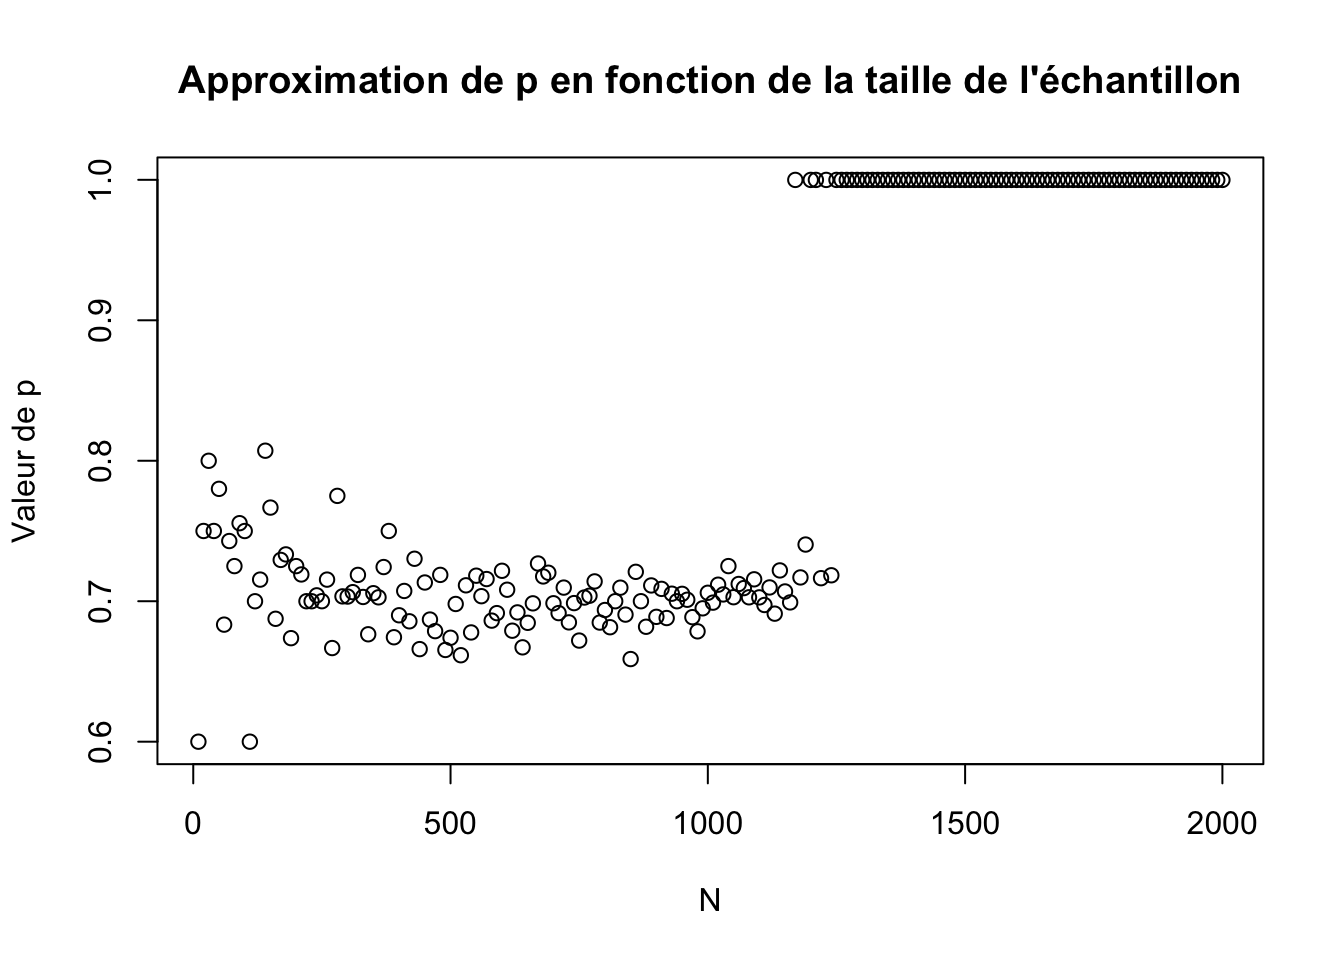
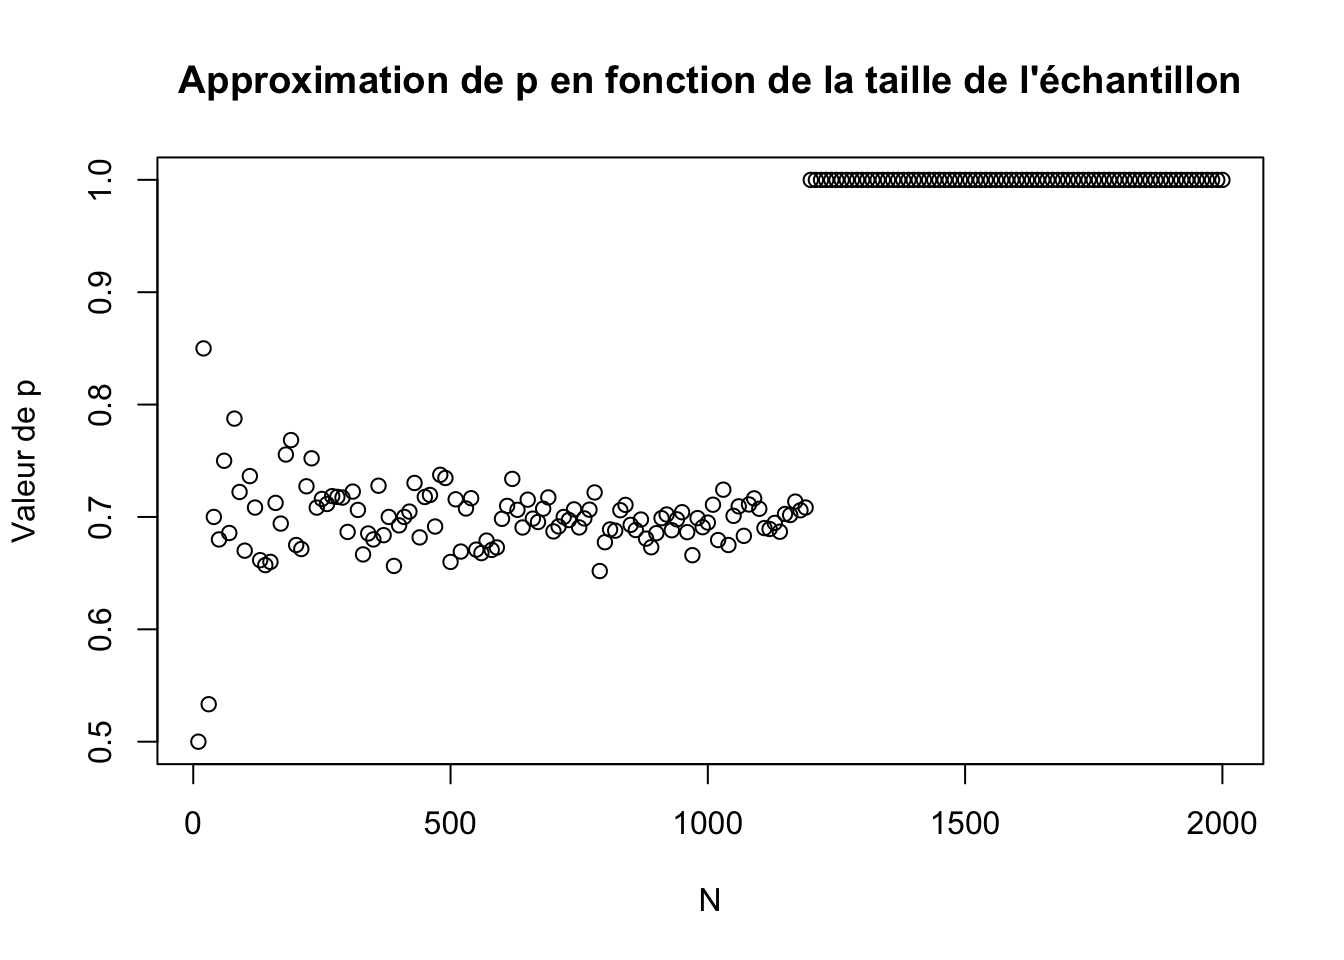
maj tp3

diff --git a/tp3.html b/tp3.html
@@ -349,7 +349,7 @@ $(document).ready(function () {
 <h2>1.a Estimation de p</h2>
 <pre class="r"><code>X_N &lt;- rbinom(n=10,size=1,prob=0.7)
 X_N</code></pre>
-<pre><code>##  [1] 0 1 1 0 1 1 0 0 1 1</code></pre>
+<pre><code>##  [1] 0 0 1 1 1 1 1 1 1 1</code></pre>
 <p>Une estimation rapide de <span class="math inline">\(p\)</span> est de trouver le paramêtre qui maximise la vraisemblance.</p>
 </div>
 <div id="b" class="section level2">
@@ -366,10 +366,10 @@ plot(vect_vraisemblance)</code></pre>
 <pre class="r"><code>interval=c(0,1)
 optimize(function(vect_p) L_bern(X_N,vect_p),interval,lower=min(interval),upper=max(interval),maximum = TRUE)</code></pre>
 <pre><code>## $maximum
-## [1] 0.600002
+## [1] 0.799982
 ## 
 ## $objective
-## [1] 0.001194394</code></pre>
+## [1] 0.006710886</code></pre>
 <p>On trouve finalement une valeur pour <span class="math inline">\(p=0.7\)</span>.</p>
 </div>
 <div id="e" class="section level2">
@@ -389,15 +389,21 @@ for (i in 1:n) {
 plot(N, res,ylab=&quot;&quot;)
 title(main=&quot;Approximation de p en fonction de la taille de l&#39;échantillon&quot;,ylab = &quot;Valeur de p&quot;)
 mean(res) </code></pre>
-<pre><code>## [1] 0.8229697</code></pre>
+<pre><code>## [1] 0.8202669</code></pre>
 <p><img src="tp3_files/figure-html/unnamed-chunk-5-1.png" width="50%" /></p>
 <p>On remarque que plus N est grand plus on se rapproche de la valeur attendue avec un meilleur écart. Pour combattre l’instabilité on passe à la log-vraisemblance : <span class="math display">\[\log(L_n(x))=\sum\limits_i \log(f(x_i;p))\]</span></p>
-<pre><code>## [1] 0.6980513</code></pre>
+<pre><code>## [1] 0.6982047</code></pre>
 <p><img src="tp3_files/figure-html/unnamed-chunk-6-1.png" width="50%" /></p>
 <p>On remarque que les points sont de moins en moins dispercé (la figure prend la forme d’un cône) plus on se rapproche d’un n grand.</p>
 </div>
 <div id="f" class="section level2">
 <h2>1.f</h2>
+<pre class="r"><code>data &lt;- read.csv(&quot;/Users/nicolasmakaroff/Downloads/distribution_inconue_2_100_realisations.csv&quot;)
+vect_p=seq(0,1,length.out=100)
+vect_vraisemblance &lt;- sapply(vect_p,function(vect_p) L_bern(data$x,vect_p))
+plot(vect_vraisemblance)
+interval=c(0,1)
+optimize(function(vect_p) L_bern(data$x,vect_p),interval,lower=min(interval),upper=max(interval),maximum = TRUE)</code></pre>
 <pre><code>## $maximum
 ## [1] 0.580002
 ## 
@@ -410,32 +416,75 @@ mean(res) </code></pre>
 <h1>2 Ajuster d’une loi normale d’écart type</h1>
 <div id="a" class="section level2">
 <h2>2.a</h2>
-<pre><code>##  [1] -0.02033051  3.04728511  3.81240920  1.98992642  1.72480701
-##  [6]  1.48325130  2.91459675  0.93412539  0.70047365  3.74499748
-## [11]  3.14436724  2.05152591  2.70037223  3.02650288  2.68969118
-## [16]  2.53628300  1.10581086  1.42031897  1.47185726  2.36431411
-## [21]  3.90650773  0.80257354  3.40931882  1.74854783  0.15240154
-## [26]  4.09099647  1.83801921 -0.49647988  2.96394125  2.34409382</code></pre>
+<pre class="r"><code>X_N &lt;- rnorm(n=30,mean=2,sd=1)
+X_N</code></pre>
+<pre><code>##  [1] 1.9684215 3.0999811 2.4690039 1.6460817 2.2515868 3.3322801 3.7945551
+##  [8] 0.9813170 1.4717377 0.1610053 2.0531774 2.7020414 3.5296802 1.8448604
+## [15] 0.8544708 3.9551314 2.0335064 3.7045165 3.1074084 1.0892047 2.1021841
+## [22] 2.9526931 3.6807002 2.5965159 1.3478581 4.1260017 1.3471974 0.7619649
+## [29] 1.4092328 3.0805469</code></pre>
 </div>
 <div id="b-1" class="section level2">
 <h2>2.b</h2>
+<pre class="r"><code>source(&quot;L_norm.R&quot;)
+vect_p=seq(0,4,length.out=100)
+vect_vraisemblance &lt;- sapply(vect_p,function(vect_p) L_norm(X_N,vect_p,2))
+plot(vect_vraisemblance)</code></pre>
 <p><img src="tp3_files/figure-html/unnamed-chunk-9-1.png" width="480" /></p>
 </div>
 <div id="c-1" class="section level2">
 <h2>2.c</h2>
+<pre class="r"><code>interval=c(0,4)
+optimize(function(vect_p) L_norm(X_N,vect_p,2),interval,lower=min(interval),upper=max(interval),maximum = TRUE)</code></pre>
 <pre><code>## $maximum
-## [1] 2.120096
+## [1] 2.315179
 ## 
 ## $objective
-## [1] 4.915194e-24</code></pre>
+## [1] 1.448676e-23</code></pre>
 <p>On trouve alors une valeur pour</p>
 </div>
 <div id="d" class="section level2">
 <h2>2.d</h2>
-<pre><code>## [1] 3.520234</code></pre>
+<pre class="r"><code>library(knitr)
+knitr::opts_chunk$set(echo=TRUE,message=FALSE,warning=FALSE)
+mu   &lt;- 2 
+N0   &lt;- 10
+Nn   &lt;- 2000
+n    &lt;- 200
+N    &lt;- 0 * 1:n # vecteur des &#39;N&#39;
+dmu  &lt;- 0 * 1:n # vecteur des &#39;| mu - mux |&#39;, où mu = 2, et px la valeur d&#39;optimize
+step &lt;- (Nn - N0) / (n - 1)
+for (i in 1:n) {
+  N[i]  &lt;- as.integer(N0 + (i - 1) * step)
+  X_Ni  &lt;- rnorm(n=N[i], 2, 1)
+  mux   &lt;- optimize(function(mux) { L_norm(X_Ni, mux,1) }, interval=c(0, 4), maximum=TRUE)
+  dmu[i] &lt;- mux$maximum
+}
+plot(N, dmu,ylab=&quot;&quot;)
+title(main=&quot;Approximation de mu en fonction de la taille de l&#39;échantillon&quot;,ylab = &quot;Valeur de mu&quot;)
+mean(dmu)</code></pre>
+<pre><code>## [1] 3.520385</code></pre>
 <p><img src="tp3_files/figure-html/unnamed-chunk-11-1.png" width="50%" /></p>
 <p>On remarque que comme dans le cas de l’exercice 1, il faut passer à la log-vraisemblance.</p>
-<pre><code>## [1] 2.005839</code></pre>
+<pre class="r"><code>library(knitr)
+knitr::opts_chunk$set(echo=TRUE,message=FALSE,warning=FALSE)
+mu   &lt;- 2 # le paramètre réel de notre loi
+N0   &lt;- 10
+Nn   &lt;- 2000
+n    &lt;- 200
+N    &lt;- 0 * 1:n # vecteur des &#39;N&#39;
+dmu  &lt;- 0 * 1:n # vecteur des &#39;| mu - mux |&#39;, où mu = 2, et px la valeur d&#39;optimize
+step &lt;- (Nn - N0) / (n - 1)
+for (i in 1:n) {
+  N[i]  &lt;- as.integer(N0 + (i - 1) * step)
+  X_Ni  &lt;- rnorm(n=N[i], 2, 1)
+  mux   &lt;- optimize(function(mux) { log_L_norm(X_Ni, mux,1) }, interval=c(0, 4), maximum=TRUE)
+  dmu[i] &lt;- mux$maximum
+}
+plot(N, dmu,xlab=&quot;&quot;)
+title(main=&quot;Approximation de mu en fonction de la taille de l&#39;échantillon&quot;,ylab = &quot;Valeur de mu&quot;)
+mean(dmu)</code></pre>
+<pre><code>## [1] 2.000819</code></pre>
 <p><img src="tp3_files/figure-html/unnamed-chunk-12-1.png" width="33%" /></p>
 <p>On remarque encore une fois l’apparition d’un cône pour n de plus en plus grand et une convergence du paramètre <span class="math inline">\(\mu\)</span> vers <span class="math inline">\(2\)</span> la valeur théorique.</p>
 </div>
@@ -443,15 +492,72 @@ mean(res) </code></pre>
 <div id="ajuster-une-loi-a-plusieurs-parametres" class="section level1">
 <h1>3 Ajuster une loi à plusieurs paramètres</h1>
 <p>Un calcul donne rapidement : <span class="math inline">\(f(x)=\lambda\exp^{-\lambda(x-L)}=\lambda\exp^{-\lambda x}\times\exp^{-\lambda L}\)</span> Ce qui permet de créer facilement un échantillon.</p>
-<p><img src="tp3_files/figure-html/unnamed-chunk-15-1.png" width="384" /></p>
+<pre class="r"><code>#taille de l&#39;échantillon
+N&lt;-1000
+lambda&lt;-2
+L&lt;-4
+echan_gaussien &lt;- rexp(N,lambda)*exp(-lambda*L)</code></pre>
+<pre class="r"><code>x0&lt;--2
+alpha&lt;-0.4
+echan_cauchy&lt;-rcauchy(N,x0,alpha)</code></pre>
+<pre class="r"><code>source(&quot;log_vrais_3.R&quot;)
+library(ggplot2)
+#discretisation de l&#39;espace
+n &lt;- 100
+#création d&#39;un dataframe
+lambdas &lt;- rep(seq(1.0, 4.0, (3.0) / (n - 1)), times=n)
+Ls &lt;- rep(seq(2.0, 6.0, (6.0 - 2.0) / (n - 1)), each=n)
+vraisemblance &lt;- c()
+gradient       &lt;- c()
+# calcul de l&#39;argmax du max
+m &lt;- 1
+for (i in 1:(n*n)) {
+  vraisemblance[i] &lt;- L_exp(echan_cauchy, lambdas[i], Ls[i])
+  #transformation évitent les valeurs de -infiny du gradient
+  gradient[i]       &lt;- exp(vraisemblance[i]*0.0001)
+  #gradient[i]=1/gradient[i]
+  m &lt;- if (vraisemblance[i] &gt; vraisemblance[m]) i else m
+}
+df &lt;- data.frame(lambdas, Ls, vraisemblance, gradient)
+ggplot(df, aes(lambdas, Ls)) +
+     geom_raster(aes(fill = gradient)) + 
+    scale_fill_gradientn(colours = topo.colors(4))</code></pre>
+<p><img src="tp3_files/figure-html/unnamed-chunk-15-1.png" width="768" /></p>
+<pre class="r"><code># valeurs des paramètres pour lesquels la vraisemblance est maximal:
+c(&quot;lambda_max&quot; = lambdas[m], &quot;l_max&quot; = Ls[m])</code></pre>
 <pre><code>## lambda_max      l_max 
 ##          4          6</code></pre>
 <p>Il a fallu dans ce cas gérer des valeurs du gradient valant <span class="math inline">\(-\infty\)</span> mais le résultat obtenu au tracé ne semble pas juste car pas centré sur les valeurs de <span class="math inline">\(\lambda\)</span> et <span class="math inline">\(L\)</span> attendues.</p>
-<p><img src="tp3_files/figure-html/unnamed-chunk-16-1.png" width="384" /></p>
+<pre class="r"><code>source(&quot;log_vrais_3.R&quot;)
+library(ggplot2)
+#discretisation de l&#39;espace
+n &lt;- 100
+#création d&#39;un dataframe
+x0s            &lt;- rep(seq(-4.0, 0.0, (0.0 - -4.0) / (n - 1)), times=n)
+alphas         &lt;- rep(seq(0.0, 1.0, (1.0 - 0.0) / (n - 1)), each=n)
+vraisemblance &lt;- c()
+gradient       &lt;- c()
+# calcul de l&#39;argmax du max
+m &lt;- 1
+for (i in 1:(n*n)) {
+  vraisemblance[i] &lt;- L_cauchy(echan_cauchy, x0s[i], alphas[i])
+  #transformée  par une transformation croissante qui améliore le résultat visuel 
+  gradient[i]       &lt;- exp(vraisemblance[i] * 0.1)
+  m &lt;- if (vraisemblance[i] &gt; vraisemblance[m]) i else m
+}
+df &lt;- data.frame(x0s, alphas, vraisemblance, gradient)
+ggplot(df, aes(x0s, alphas)) +
+    geom_raster(aes(fill = gradient)) +
+    scale_fill_gradientn(colours = topo.colors(4))</code></pre>
+<p><img src="tp3_files/figure-html/unnamed-chunk-16-1.png" width="768" /></p>
+<pre class="r"><code># vrais paramètres
+c(&quot;x0&quot; = x0, &quot;alpha_max&quot; = alpha)</code></pre>
 <pre><code>##        x0 alpha_max 
 ##      -2.0       0.4</code></pre>
+<pre class="r"><code># valeurs des paramètres pour lesquels la vraisemblance est maximal:
+c(&quot;x0_max&quot; = x0s[m], &quot;alpha_max&quot; = alphas[m])</code></pre>
 <pre><code>##     x0_max  alpha_max 
-## -2.0202020  0.3838384</code></pre>
+## -1.9797980  0.3939394</code></pre>
 </div>
 
 

diff --git a/tp4.html b/tp4.html
@@ -387,7 +387,7 @@ for (i in 1:100){
   }
 }
 print(paste(&quot;nombre de rejet du test = &quot;,acc,sep = &quot;&quot;))</code></pre>
-<pre><code>## [1] &quot;nombre de rejet du test = 8&quot;</code></pre>
+<pre><code>## [1] &quot;nombre de rejet du test = 2&quot;</code></pre>
 <p>On remarque que le nombre de rejet varie accès peu et qu’il vaut généralement 4.</p>
 </div>
 <div id="b-1" class="section level3">
@@ -413,9 +413,9 @@ for (i in alpha_list){
     }
     print(paste(&quot;alpha = &quot;,i,&quot; nombre de rejet du test = &quot;,acc,sep = &quot;&quot;))
 }</code></pre>
-<pre><code>## [1] &quot;alpha = 0.2 nombre de rejet du test = 17&quot;
-## [1] &quot;alpha = 0.1 nombre de rejet du test = 8&quot;
-## [1] &quot;alpha = 0.05 nombre de rejet du test = 5&quot;
+<pre><code>## [1] &quot;alpha = 0.2 nombre de rejet du test = 15&quot;
+## [1] &quot;alpha = 0.1 nombre de rejet du test = 9&quot;
+## [1] &quot;alpha = 0.05 nombre de rejet du test = 10&quot;
 ## [1] &quot;alpha = 0.01 nombre de rejet du test = 1&quot;</code></pre>
 </div>
 </div>
@@ -431,10 +431,10 @@ for (i in alpha_list){
     }
     print(paste(&quot;alpha = &quot;,i,&quot; nombre de rejet du test = &quot;,acc,sep = &quot;&quot;))
 }</code></pre>
-<pre><code>## [1] &quot;alpha = 0.2 nombre de rejet du test = 74&quot;
-## [1] &quot;alpha = 0.1 nombre de rejet du test = 61&quot;
-## [1] &quot;alpha = 0.05 nombre de rejet du test = 43&quot;
-## [1] &quot;alpha = 0.01 nombre de rejet du test = 21&quot;</code></pre>
+<pre><code>## [1] &quot;alpha = 0.2 nombre de rejet du test = 68&quot;
+## [1] &quot;alpha = 0.1 nombre de rejet du test = 63&quot;
+## [1] &quot;alpha = 0.05 nombre de rejet du test = 38&quot;
+## [1] &quot;alpha = 0.01 nombre de rejet du test = 16&quot;</code></pre>
 <p>On remarque dans un premier que logiquement que rejeté beaucoup plus que précédemment. D’autre part, <span class="math inline">\(\alpha\)</span> influe encore car plus <span class="math inline">\(\alpha\)</span> est grand plus on se trompe sur le testde décision.</p>
 </div>
 <div id="b-2" class="section level3">
@@ -455,15 +455,15 @@ for(i in mu_liste){
     test &lt;- c(test,acc)
     print(paste(&quot;alpha = &quot;,i,&quot; nombre de rejet du test = &quot;,acc,sep = &quot;&quot;))
 }</code></pre>
-<pre><code>## [1] &quot;alpha = 1.2 nombre de rejet du test = 49&quot;
-## [1] &quot;alpha = 1.3 nombre de rejet du test = 41&quot;
-## [1] &quot;alpha = 1.4 nombre de rejet du test = 44&quot;
-## [1] &quot;alpha = 1.5 nombre de rejet du test = 50&quot;
-## [1] &quot;alpha = 1.6 nombre de rejet du test = 42&quot;
-## [1] &quot;alpha = 1.7 nombre de rejet du test = 48&quot;
-## [1] &quot;alpha = 1.8 nombre de rejet du test = 47&quot;
-## [1] &quot;alpha = 1.9 nombre de rejet du test = 50&quot;
-## [1] &quot;alpha = 2 nombre de rejet du test = 51&quot;</code></pre>
+<pre><code>## [1] &quot;alpha = 1.2 nombre de rejet du test = 46&quot;
+## [1] &quot;alpha = 1.3 nombre de rejet du test = 44&quot;
+## [1] &quot;alpha = 1.4 nombre de rejet du test = 57&quot;
+## [1] &quot;alpha = 1.5 nombre de rejet du test = 38&quot;
+## [1] &quot;alpha = 1.6 nombre de rejet du test = 50&quot;
+## [1] &quot;alpha = 1.7 nombre de rejet du test = 45&quot;
+## [1] &quot;alpha = 1.8 nombre de rejet du test = 49&quot;
+## [1] &quot;alpha = 1.9 nombre de rejet du test = 41&quot;
+## [1] &quot;alpha = 2 nombre de rejet du test = 42&quot;</code></pre>
 <pre class="r"><code>plot(mu_liste,100 - test,xlab = &quot;Valeurs prises par mu1&quot;,ylab = &quot;nombre de rejet obtenu&quot;,main = &quot;Pourcentage de bonne décision&quot;,type = &quot;l&quot;)</code></pre>
 <p><img src="tp4_files/figure-html/unnamed-chunk-6-1.png" width="672" /></p>
 </div>
@@ -477,13 +477,13 @@ for(i in mu_liste){
 ##  One Sample t-test
 ## 
 ## data:  rnorm(20, 1, sqrt(2))
-## t = -0.83363, df = 19, p-value = 0.4148
+## t = 0.32782, df = 19, p-value = 0.7466
 ## alternative hypothesis: true mean is not equal to 1
 ## 95 percent confidence interval:
-##  0.2760568 1.3115266
+##  0.4348199 1.7751024
 ## sample estimates:
 ## mean of x 
-## 0.7937917</code></pre>
+##  1.104961</code></pre>
 <p><span class="math inline">\(t\)</span> est la valeur correspondant à la statistique donnée par Neyman-Pearson. <span class="math inline">\(df\)</span> est le degré de liberté de la loi de Student.</p>
 </div>
 <div id="b-3" class="section level3">
@@ -500,49 +500,49 @@ for(i in mu_liste){
 ##  One Sample t-test
 ## 
 ## data:  rnorm(20, 1, sqrt(2))
-## t = 0.61731, df = 19, p-value = 0.5444
+## t = -0.085618, df = 19, p-value = 0.9327
 ## alternative hypothesis: true mean is not equal to 1
 ## 80 percent confidence interval:
-##  0.7437878 1.7014829
+##  0.5473698 1.3977913
 ## sample estimates:
 ## mean of x 
-##  1.222635 
+## 0.9725805 
 ## 
 ## 
 ##  One Sample t-test
 ## 
 ## data:  rnorm(20, 1, sqrt(2))
-## t = 0.11926, df = 19, p-value = 0.9063
+## t = -1.1601, df = 19, p-value = 0.2604
 ## alternative hypothesis: true mean is not equal to 1
 ## 90 percent confidence interval:
-##  0.4776727 1.5997170
+##  0.2927982 1.1392764
 ## sample estimates:
 ## mean of x 
-##  1.038695 
+## 0.7160373 
 ## 
 ## 
 ##  One Sample t-test
 ## 
 ## data:  rnorm(20, 1, sqrt(2))
-## t = 1.2475, df = 19, p-value = 0.2274
+## t = 0.57142, df = 19, p-value = 0.5744
 ## alternative hypothesis: true mean is not equal to 1
 ## 95 percent confidence interval:
-##  0.7549629 1.9681024
+##  0.6542983 1.6053520
 ## sample estimates:
 ## mean of x 
-##  1.361533 
+##  1.129825 
 ## 
 ## 
 ##  One Sample t-test
 ## 
 ## data:  rnorm(20, 1, sqrt(2))
-## t = -1.4439, df = 19, p-value = 0.1651
+## t = 0.79891, df = 19, p-value = 0.4342
 ## alternative hypothesis: true mean is not equal to 1
 ## 99 percent confidence interval:
-##  -0.3167089  1.4334179
+##  0.353901 2.146749
 ## sample estimates:
 ## mean of x 
-## 0.5583545</code></pre>
+##  1.250325</code></pre>
 </div>
 <div id="d" class="section level3">
 <h3>(d)</h3>

diff --git a/tp2.html b/tp2.html
@@ -419,7 +419,7 @@ moy_norm_hist &lt;- function(law,title){
   }
 }
 mean(gen_echan_gauss(100,1000,1,2))</code></pre>
-<pre><code>## [1] 2.549514</code></pre>
+<pre><code>## [1] 2.457438</code></pre>
 <pre class="r"><code>#moy_empirique(gen_echan_gauss(10000,10000,1,2))
 moy_norm &lt;- function(n,N,mu,sigma){
   Xn &lt;- gen_echan_gauss(n,N,mu,sigma)[1,]
